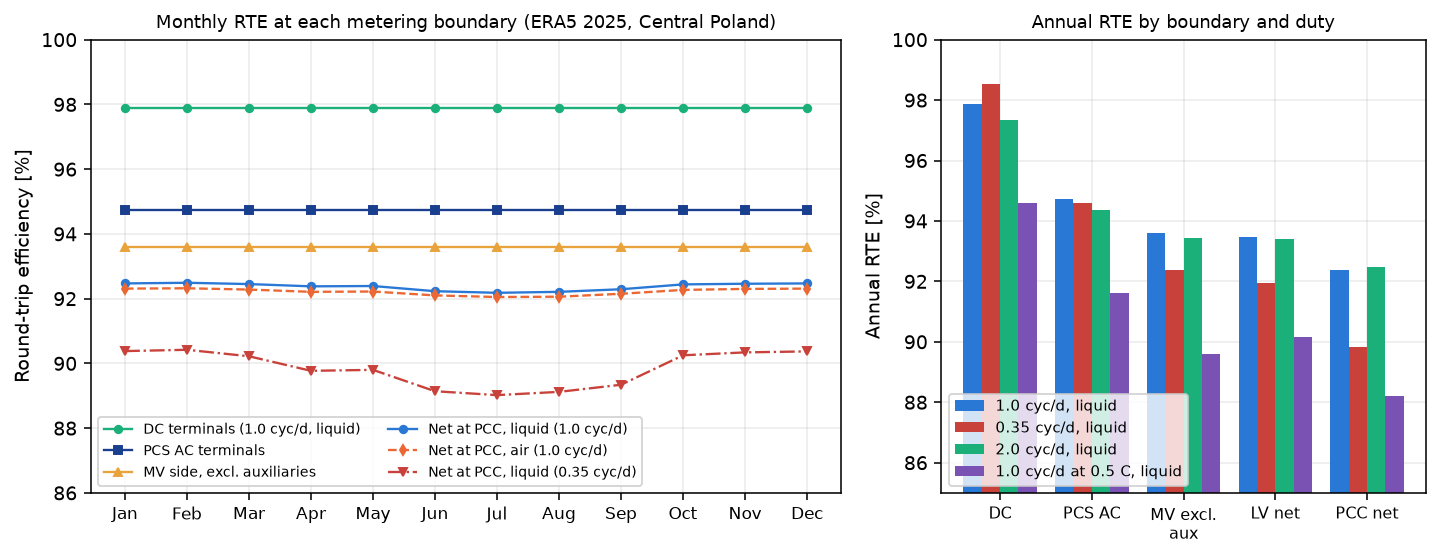
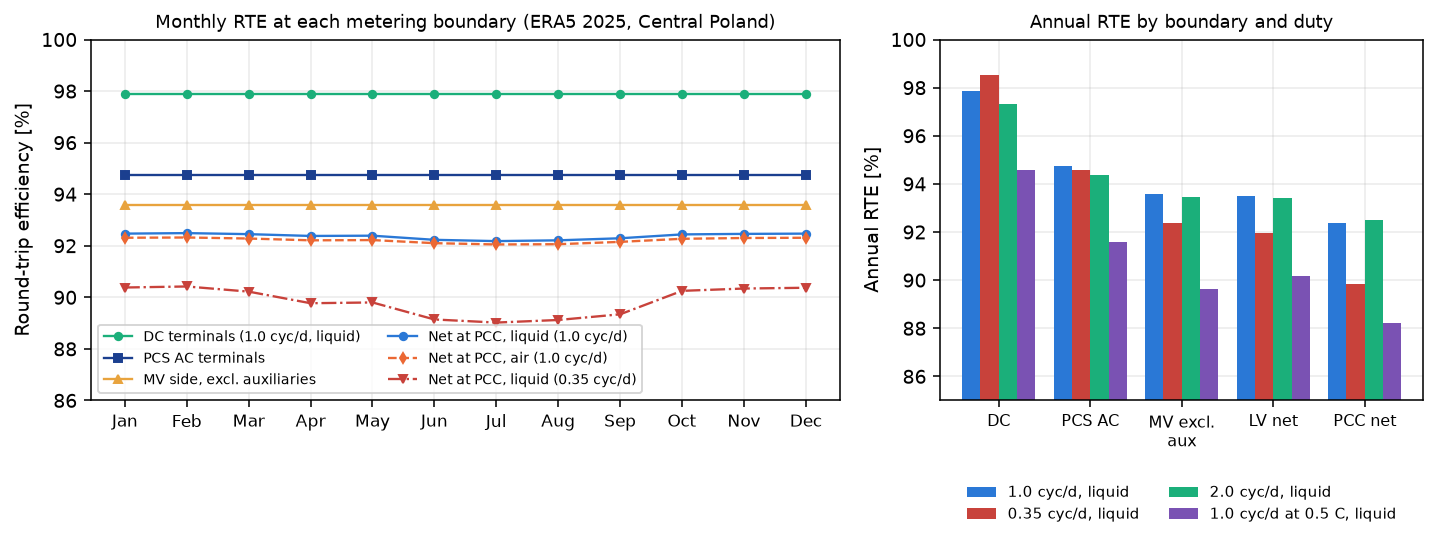
Charts: legends off the data
Page: horizontal legends are anchored at their bottom above the plot (below it
on narrow screens), so wrapped legends grow away from the data; they covered 44 %
and 69 % of the auxiliary-power and loss plots.

README charts: the annual-RTE legend moves under the axis (it covered the lower
part of the bars); the COP legend moves to the empty lower left (it covered the
liquid curve); the coldest/hottest week figure gets one legend above the grid
instead of six that hid minima and peaks. Layout only; results unchanged.

diff --git a/docs/index.html b/docs/index.html
@@ -156,7 +156,9 @@ function layoutBase(extra) {
     font: {family: "system-ui, -apple-system, Segoe UI, sans-serif", color: css("--ink2"), size: 12},
     margin: {l: 58, r: 18, t: 28, b: 46},
     hoverlabel: {bgcolor: css("--surface"), font: {color: css("--ink")}},
-    legend: narrow() ? {orientation: "h", y: -0.22, x: 0, font: {size: 10}} : {orientation: "h", y: 1.08, x: 0}
+    // anchored on the side away from the plot, so a legend that wraps to more rows grows away from the data
+    legend: narrow() ? {orientation: "h", y: -0.22, yanchor: "top", x: 0, font: {size: 10}}
+      : {orientation: "h", y: 1.02, yanchor: "bottom", x: 0}
   }, extra);
 }
 const axis = extra => Object.assign({gridcolor: css("--grid"), linecolor: css("--axis"), zeroline: false}, extra);

diff --git a/src/bess_thermal/plots.py b/src/bess_thermal/plots.py
@@ -107,7 +107,8 @@ def generate_all_figures(
     ax2.set_ylabel("Annual RTE [%]")
     ax2.set_ylim(np.floor(min(bar_vals)) - 3.0, 100.0)
     ax2.set_title("Annual RTE by boundary and duty", fontsize=9.5)
-    ax2.legend(loc="lower left", fontsize=7.5, frameon=True)
+    # under the axis: inside, it covered the lower part of the bars
+    ax2.legend(loc="upper center", bbox_to_anchor=(0.5, -0.2), fontsize=7.5, frameon=False, ncol=2)
     _save(fig, img_dir / "monthly_rte_waterfall.png")
 
     # 2. Steady-state auxiliary power and COP against ambient temperature
@@ -127,7 +128,7 @@ def generate_all_figures(
     ax_r.set_xlabel("Ambient temperature [degC]")
     ax_r.set_ylabel("Chiller COP [-]")
     ax_r.set_title("Effective chiller COP (Carnot fraction, capped)", fontsize=9.5)
-    ax_r.legend(loc="upper right", fontsize=8, frameon=True)
+    ax_r.legend(loc="lower left", fontsize=8, frameon=True)  # the COP curves leave the lower left empty
     _save(fig, img_dir / "aux_vs_temperature.png")
 
     # 3. Coldest and hottest week (15-min)
@@ -145,20 +146,25 @@ def generate_all_figures(
         ax0.step(t_h, [r["t_cell_c"] for r in r_liq], where="post", color=BLUE, lw=1.0, label="Cells, liquid")
         ax0.step(t_h, [r["t_cell_c"] for r in r_air], where="post", color=ORANGE, lw=1.0, ls="--", label="Cells, air")
         ax0.set_ylabel("Temperature [degC]")
-        ax0.legend(loc="lower right", fontsize=7.5, frameon=True, ncol=3)
         ax1_.step(t_h, [r["r_int_mohm"] for r in r_liq], where="post", color=NAVY, lw=0.9, label="Pack R_int, liquid")
         ax1_.step(t_h, [r["r_int_mohm"] for r in r_air], where="post", color=ORANGE, lw=0.9, ls="--", label="Pack R_int, air")
         ax1_.set_ylabel("R_int [mOhm]")
-        ax1_.legend(loc="upper right", fontsize=7.5, frameon=True)
         ax2_.step(t_h, [r["p_aux_kw"] for r in r_liq], where="post", color=BLUE, lw=0.9, label="Aux, liquid")
         ax2_.step(t_h, [r["p_aux_kw"] for r in r_air], where="post", color=RED, lw=0.9, ls="--", label="Aux, air")
         ax2_.set_ylabel("Aux power [kW]")
         ax2_.set_xlabel(f"Hours from {r_liq[0]['timestamp']} CET")
-        ax2_.legend(loc="upper right", fontsize=7.5, frameon=True)
         if week_key == "cold_week":
             ax0.set_title(f"Coldest week (1.0 cyc/d), min {w_liq['t_min_c']} degC at {w_liq['t_min_at']}", fontsize=9)
         else:
             ax0.set_title(f"Hottest week (1.0 cyc/d), max {w_liq['t_max_c']} degC at {w_liq['t_max_at']}", fontsize=9)
+    # one legend above the grid: in the panels the legends hid minima and peaks
+    handles, labels = [], []
+    for ax in axes[:, 0]:
+        h, lab = ax.get_legend_handles_labels()
+        handles += h
+        labels += lab
+    fig.legend(handles, labels, loc="lower center", bbox_to_anchor=(0.5, 1.0), ncol=len(labels), fontsize=8,
+               frameon=False)
     _save(fig, img_dir / "winter_summer_week.png")
 
     # 4. Annual losses by component and duty
